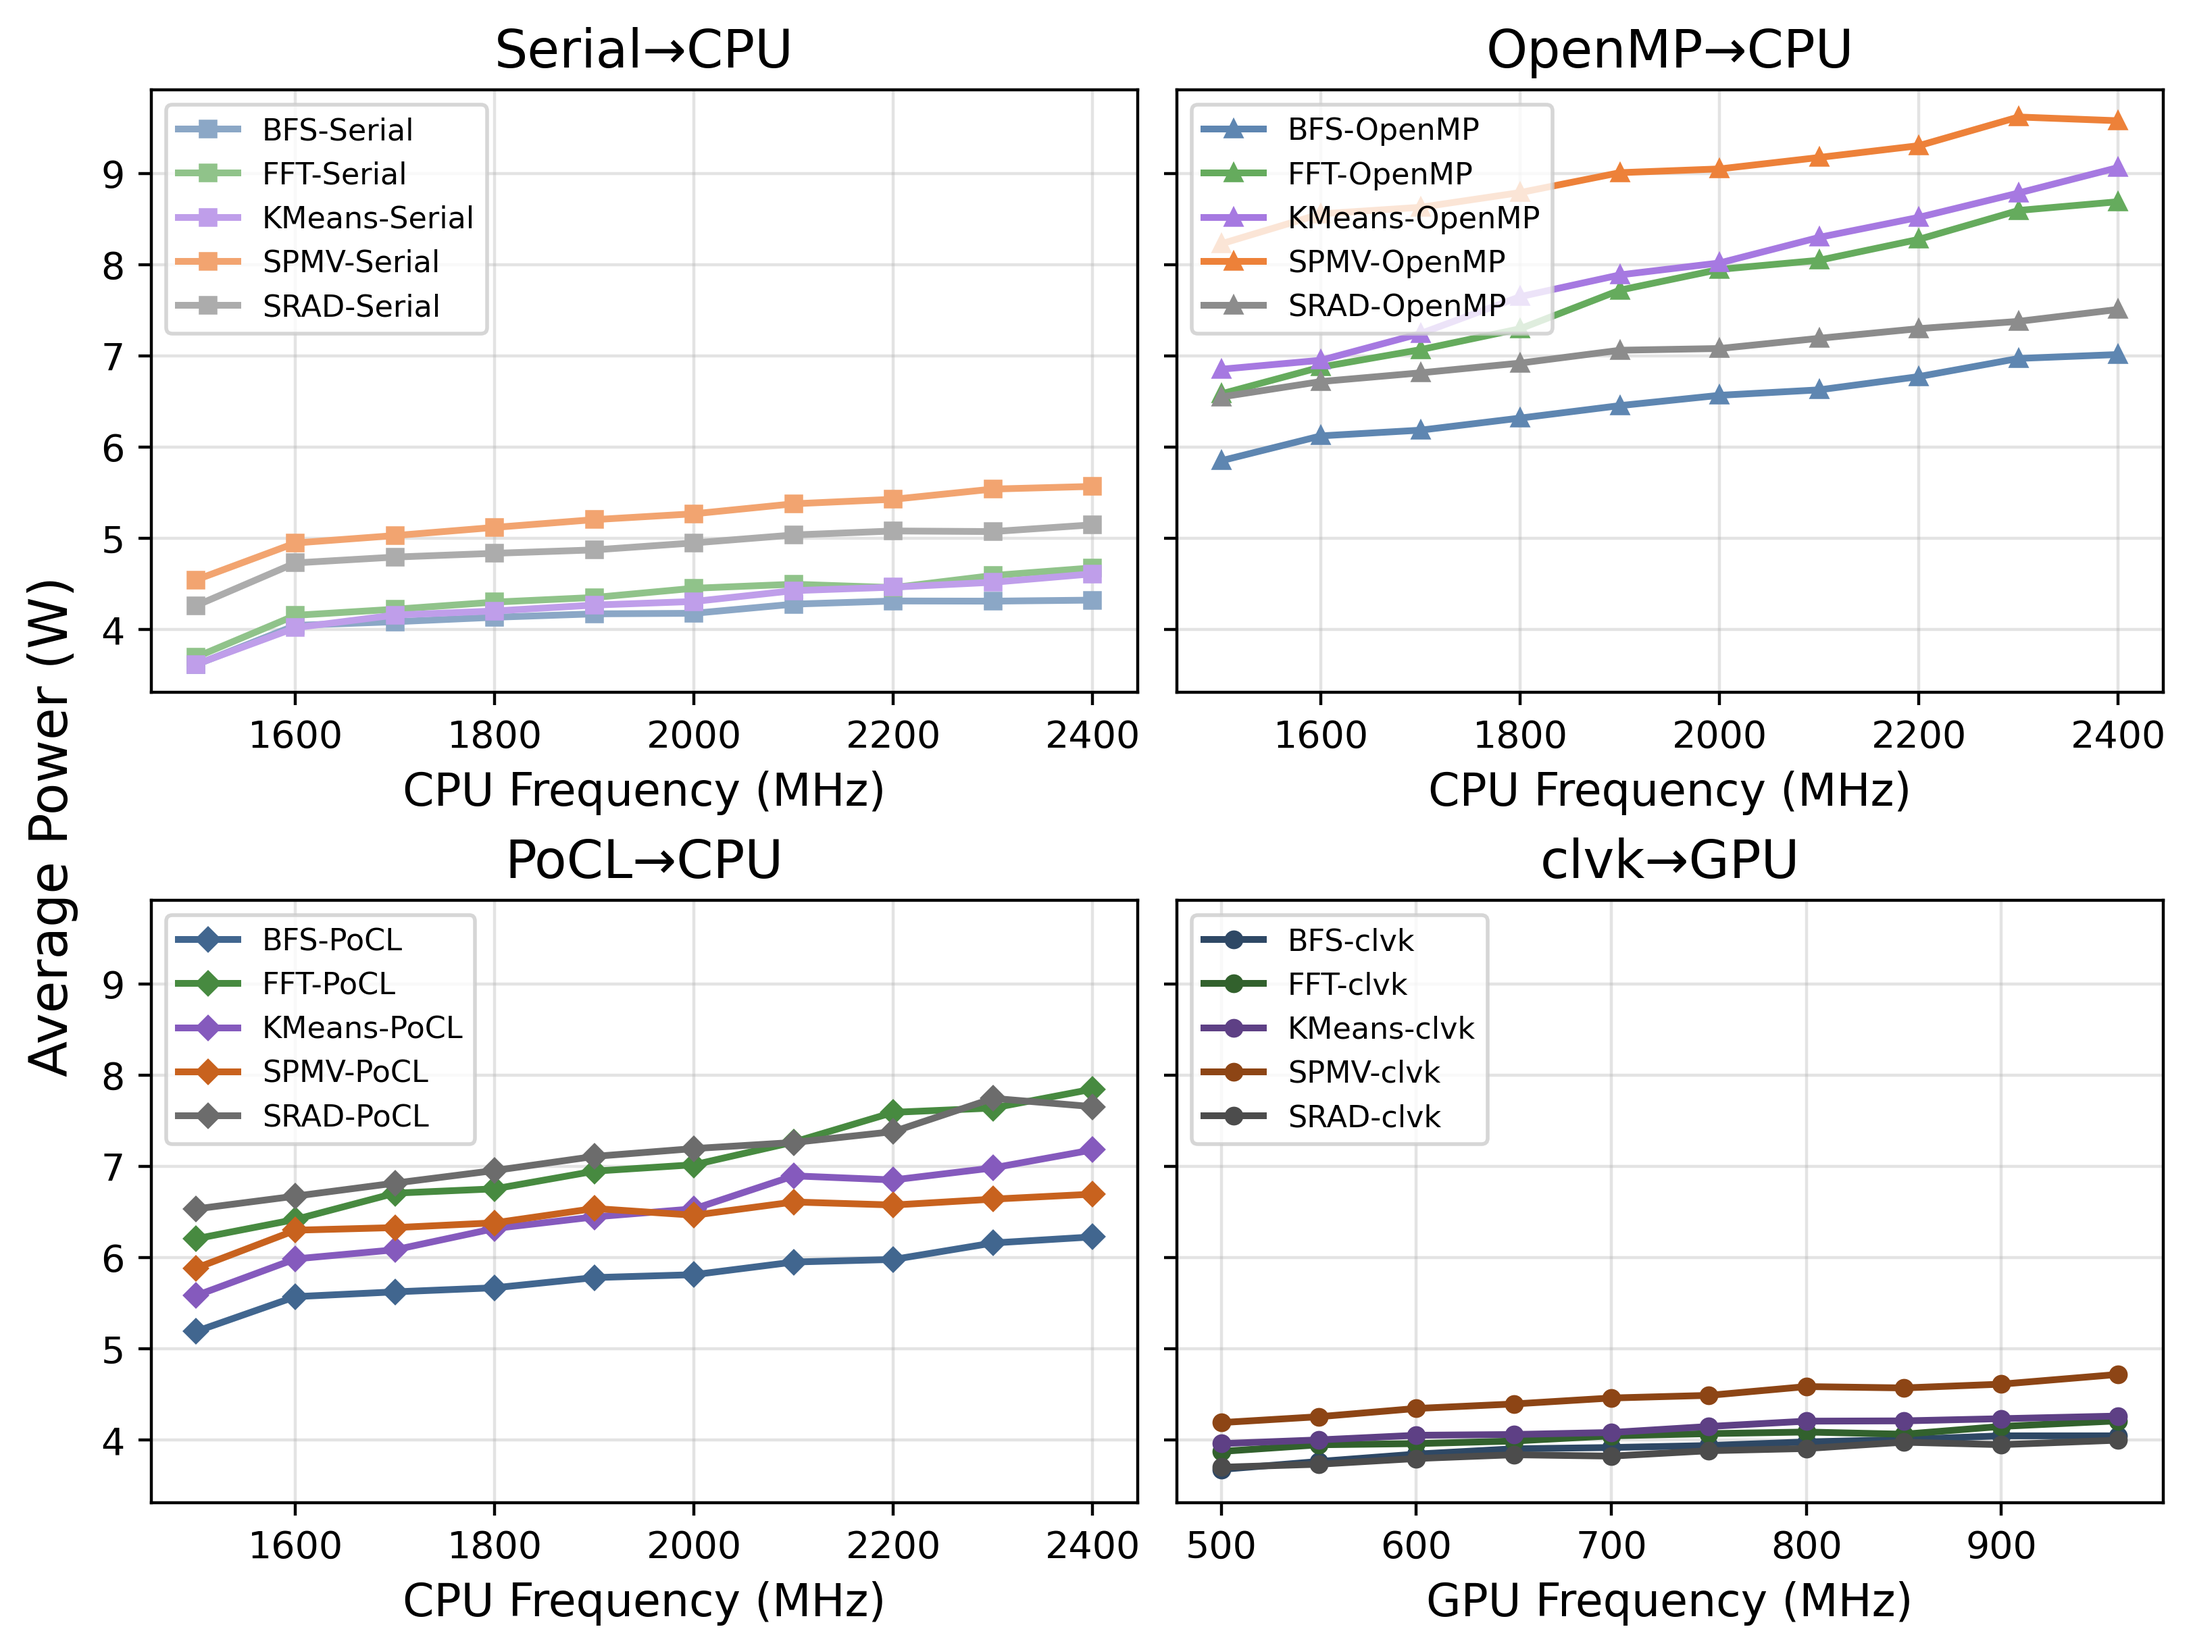
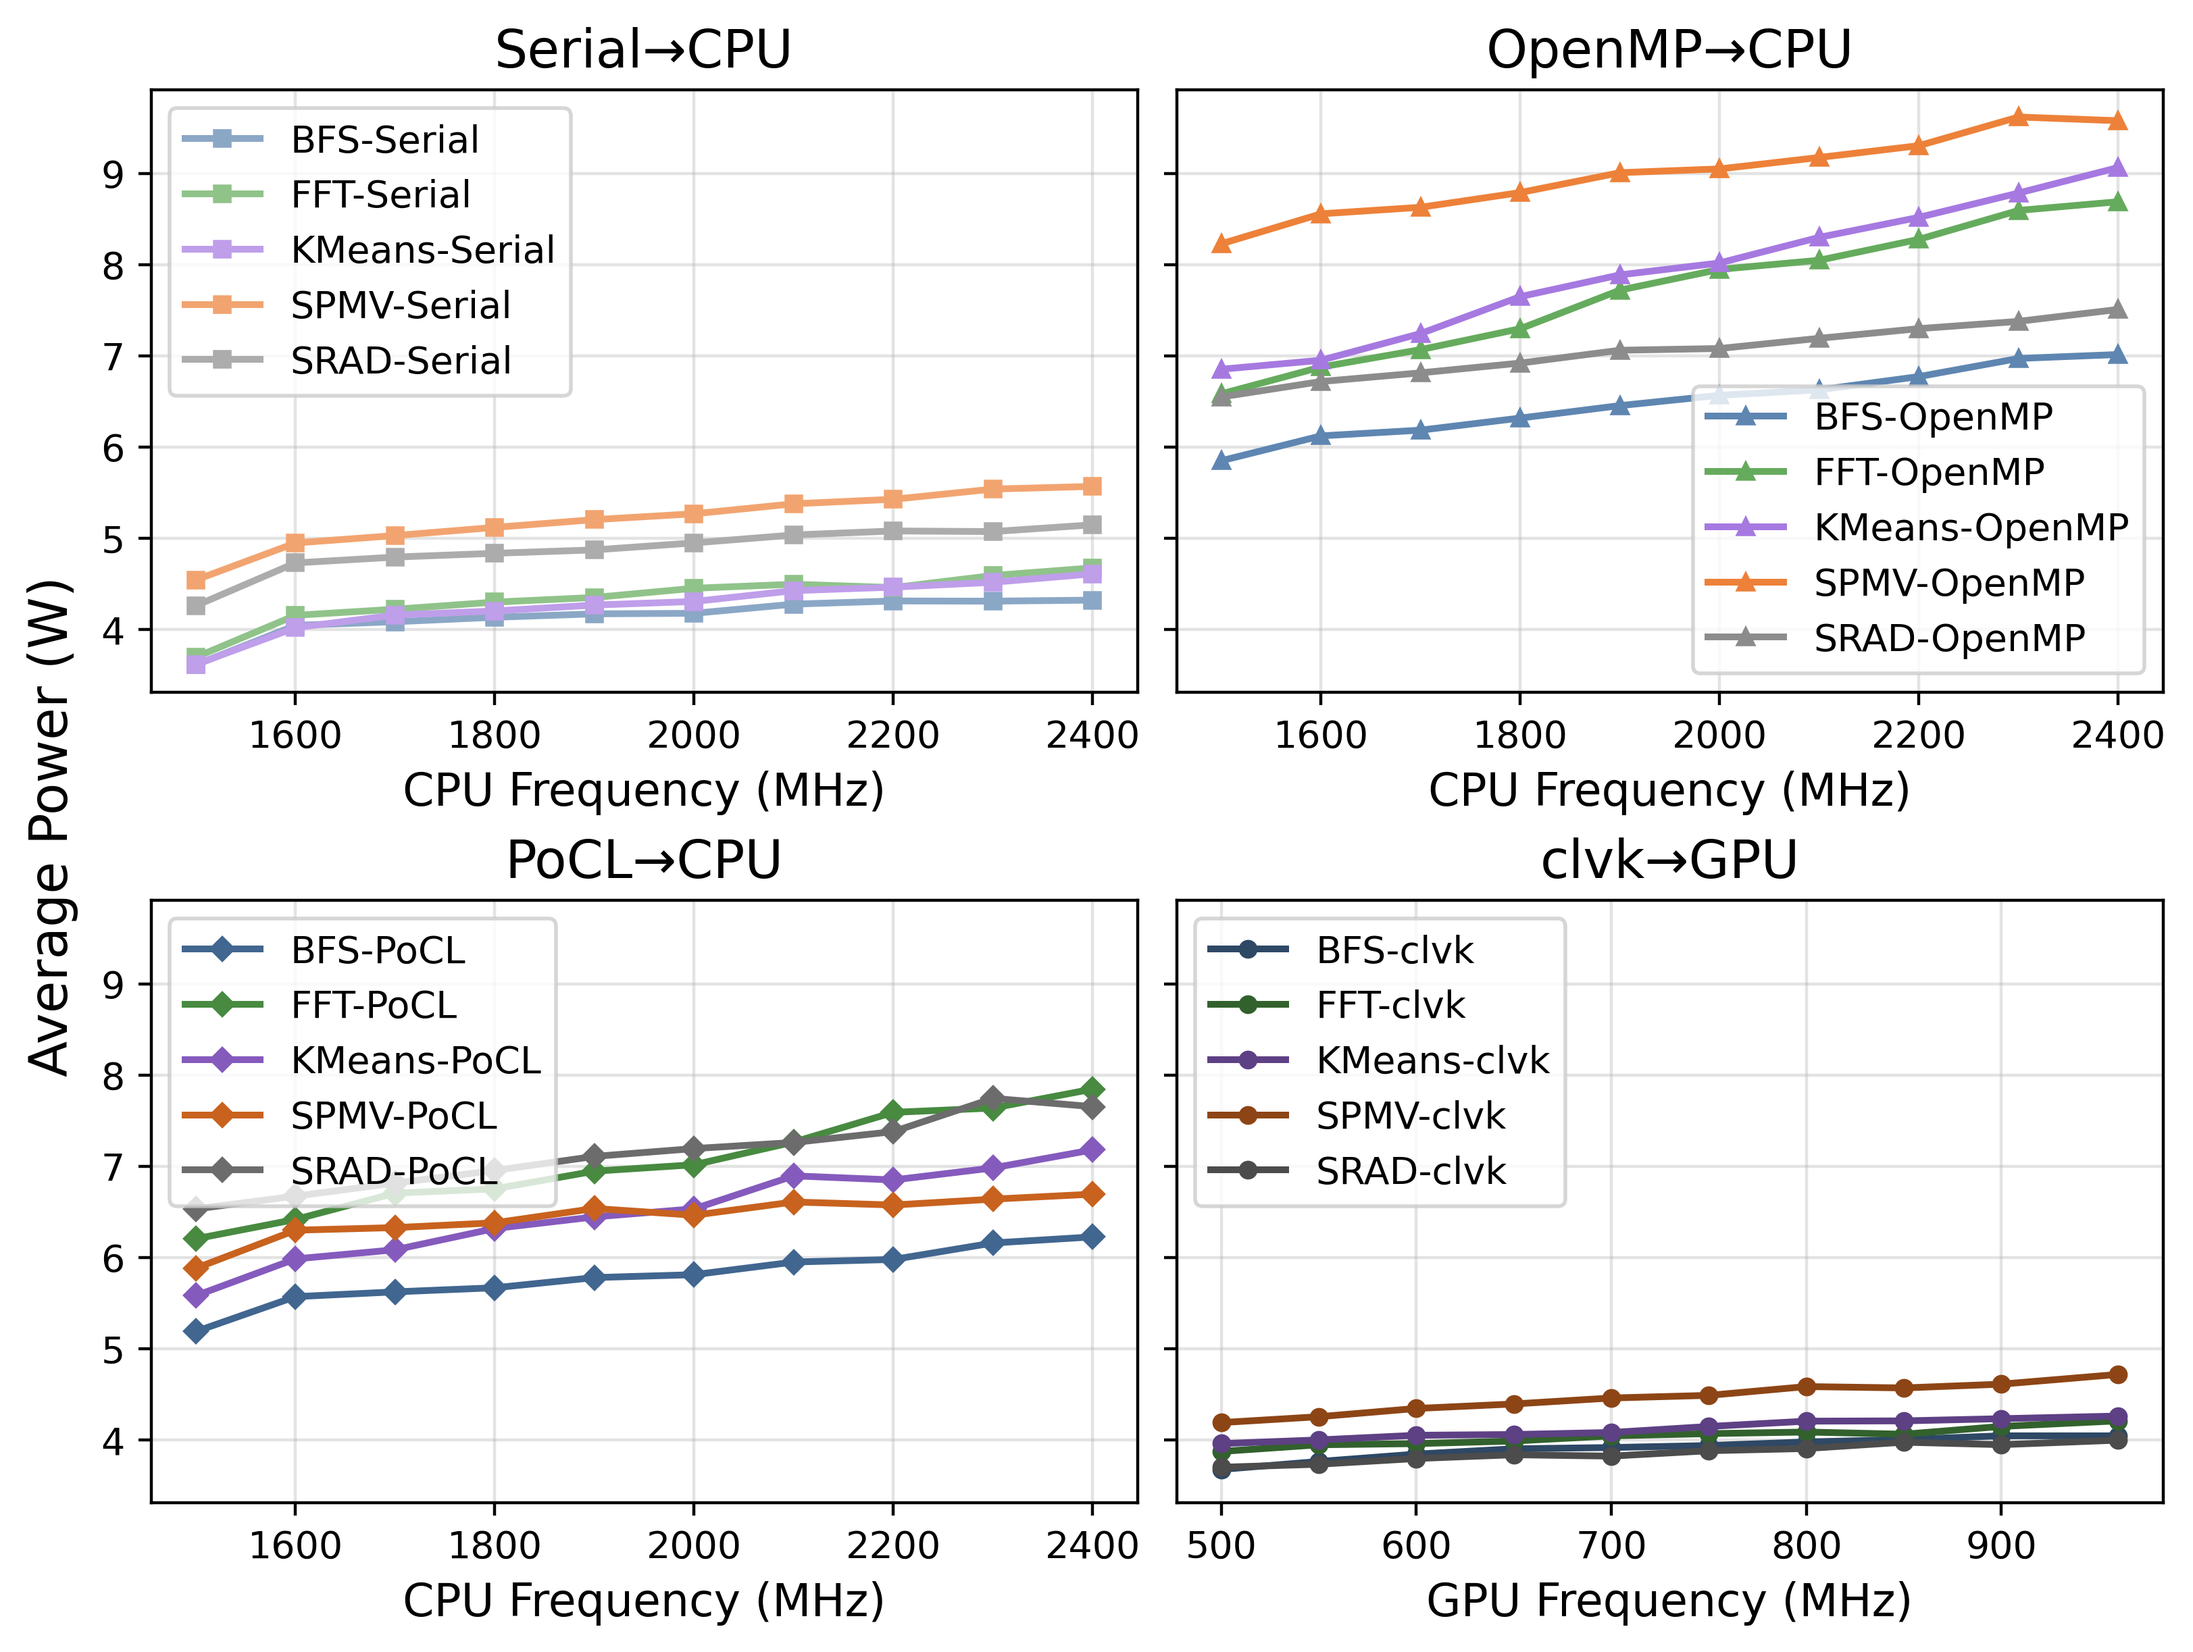
hpec plots that will never come to fruition

diff --git a/HPEC_plots.py b/HPEC_plots.py
@@ -880,7 +880,7 @@ def main() -> None:
         bar_group_by="Algorithm",
         bar_subgroup_by="impl_class",
 
-        bar_show_subgroup_labels=False,
+        bar_show_subgroup_labels=True,
         bar_show_group_labels=True,
 
         bar_group_gap=0.8,
@@ -1103,7 +1103,8 @@ def main() -> None:
 
                 legend="top_left",
                 legend_style="values",
-                legend_fontsize=8,
+                legend_fontsize=10,
+                legend_ncol=2,
             )),
             (dev_data["CPU"].loc[dev_data["CPU"]["variant"].eq("OpenMP")].copy(), PlotSpec(
                 kind="line",
@@ -1146,9 +1147,10 @@ def main() -> None:
                     "clvk": "o"
                 },
 
-                legend="top_left",
+                legend="bottom_right",
                 legend_style="values",
-                legend_fontsize=8,
+                legend_fontsize=10,
+                legend_ncol=2,
             )),
             (dev_data["CPU"].loc[dev_data["CPU"]["variant"].eq("PoCL")].copy(), PlotSpec(
                 kind="line",
@@ -1193,7 +1195,8 @@ def main() -> None:
 
                 legend="top_left",
                 legend_style="values",
-                legend_fontsize=8,
+                legend_fontsize=10,
+                legend_ncol=2,
             )),
             (dev_data["GPU"], PlotSpec(
                 kind="line",
@@ -1238,7 +1241,8 @@ def main() -> None:
 
                 legend="top_left",
                 legend_style="values",
-                legend_fontsize=8,
+                legend_fontsize=10,
+                legend_ncol=2,
             )),
         ],
         output= out_dir / "power_by_frequency_cpu_gpu2.png",

diff --git a/graph_tool_v2_panels.py b/graph_tool_v2_panels.py
@@ -265,7 +265,7 @@ class PlotSpec:
     dpi: int = 400
 
     legend: str = "outside_right"
-    legend_ncol: Optional[int] = None
+    legend_ncol: Optional[int] = 1
     legend_fontsize: int = 8
     legend_style: Optional[Literal["full", "values"]] = "full"
     legend_separator: Optional[str] = "-"
@@ -542,6 +542,7 @@ class Plotter:
                 formatted_labels,
                 loc="center left",
                 bbox_to_anchor=(1.02, 0.5),
+                ncols=spec.legend_ncol,
                 **legend_kwargs,
             )
             return
@@ -552,6 +553,7 @@ class Plotter:
                 formatted_labels,
                 loc="center right",
                 bbox_to_anchor=(-0.02, 0.5),
+                ncols=spec.legend_ncol,
                 **legend_kwargs,
             )
             return
@@ -566,7 +568,7 @@ class Plotter:
                 formatted_labels,
                 loc="upper center",
                 bbox_to_anchor=(0.5, -0.18),
-                ncol=ncol,
+                ncols=spec.legend_ncol,
                 **legend_kwargs,
             )
             return
@@ -581,7 +583,7 @@ class Plotter:
                 formatted_labels,
                 loc="lower center",
                 bbox_to_anchor=(0.5, 1.02),
-                ncol=ncol,
+                ncols=spec.legend_ncol,
                 **legend_kwargs,
             )
             return
